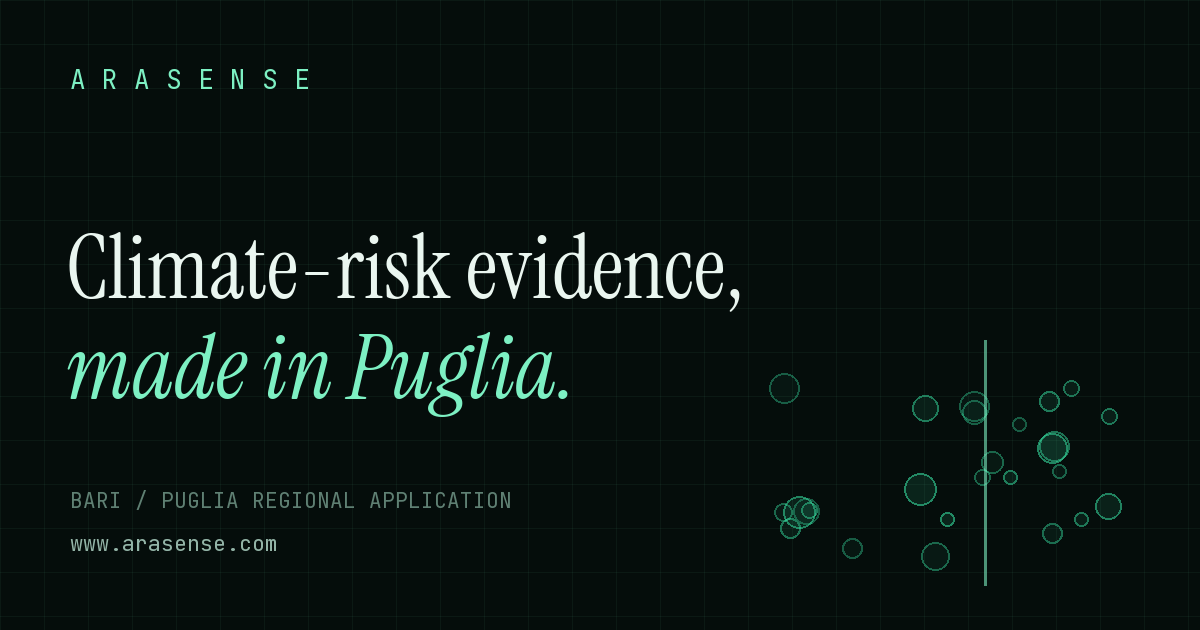
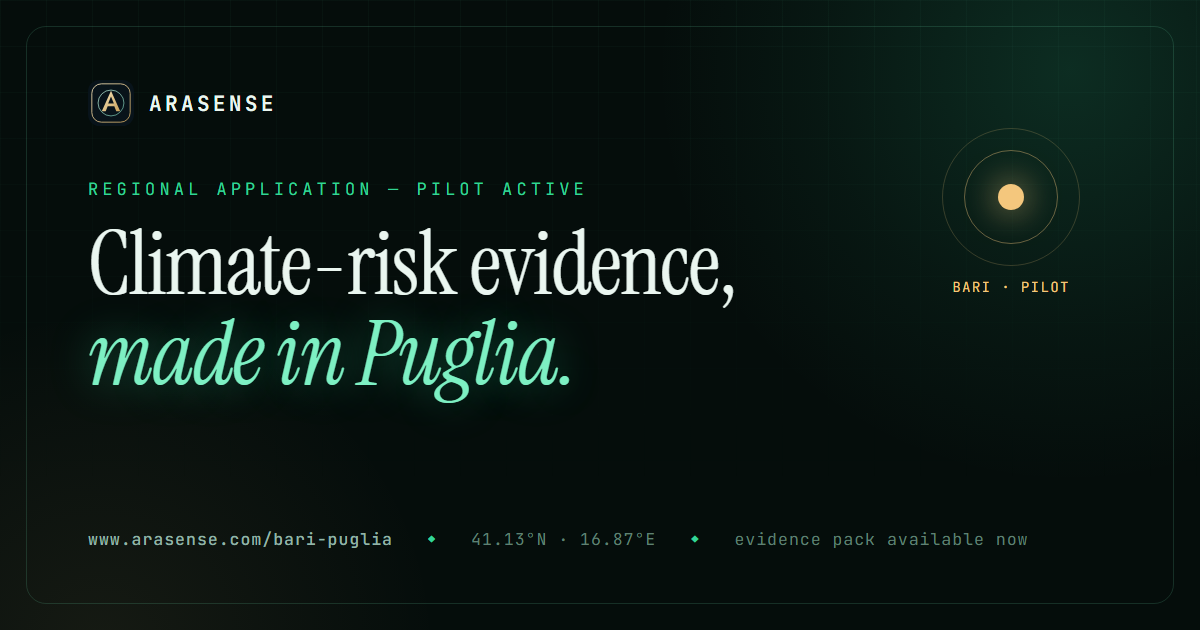
Visual evidence, Puglia lead capture, and redesigned OG cards
- Evidence page: uncertainty band drawn to scale with trust-weighted
  mean marker, SSP2-4.5 vs SSP5-8.5 duel bars with agreement meters,
  portfolio agreement meters (Venice amber at 56%)
- Bari/Puglia: pilot status strip and a working lead-capture form
  wired to the existing /api/lead worker (data-city Bari / Puglia)
- All six OG social cards regenerated in the site design language,
  each with a page-specific data motif; URLs versioned to bypass
  edge cache and force scraper refresh

diff --git a/site/evidence.html b/site/evidence.html
@@ -11,10 +11,10 @@
   <meta property="og:title" content="Sample Evidence — Arasense">
   <meta property="og:description" content="Evidence reports with trusted models, rejected models, uncertainty, and interpretation shown.">
   <meta property="og:url" content="https://www.arasense.com/evidence.html">
-  <meta property="og:image" content="https://www.arasense.com/og/evidence.png">
+  <meta property="og:image" content="https://www.arasense.com/og/evidence.png?v=2">
   <meta property="og:image:width" content="1200">
   <meta property="og:image:height" content="630">
-  <meta name="twitter:image" content="https://www.arasense.com/og/evidence.png">
+  <meta name="twitter:image" content="https://www.arasense.com/og/evidence.png?v=2">
   <meta name="twitter:card" content="summary_large_image">
   <link rel="preload" href="fonts/instrument-serif-400.woff2" as="font" type="font/woff2" crossorigin>
   <link rel="preload" href="fonts/instrument-serif-400-italic.woff2" as="font" type="font/woff2" crossorigin>
@@ -26,10 +26,104 @@
     .page-hero h1 { max-width: 860px; margin: 0 0 22px; }
     .evidence-grid { display: grid; grid-template-columns: repeat(2, minmax(0,1fr)); gap: 16px; margin-top: 36px; }
     .evidence-grid .wide { grid-column: 1 / -1; }
+
+    /* ---- uncertainty band, drawn not footnoted ---- */
+    .spread { margin: 18px 0 6px; }
+    .spread-track {
+      position: relative;
+      height: 46px;
+      border-radius: 10px;
+      background: rgba(5, 15, 12, 0.6);
+      border: 1px solid var(--line);
+      overflow: hidden;
+    }
+    .spread-band {
+      position: absolute;
+      top: 6px; bottom: 6px;
+      left: var(--lo); width: 0;
+      background: rgba(52, 211, 153, 0.13);
+      border: 1px dashed rgba(52, 211, 153, 0.35);
+      border-radius: 7px;
+      transition: width 1.1s cubic-bezier(0.22, 1, 0.36, 1) 0.2s;
+    }
+    .reveal.in .spread-band { width: var(--w); }
+    .spread-zero {
+      position: absolute;
+      top: 0; bottom: 0;
+      left: var(--x);
+      width: 1px;
+      background: rgba(110, 231, 183, 0.4);
+    }
+    .spread-mean {
+      position: absolute;
+      top: 0; bottom: 0;
+      left: var(--x);
+      width: 2px;
+      background: var(--accent-bright);
+      opacity: 0;
+      transition: opacity .6s 1s;
+    }
+    .reveal.in .spread-mean { opacity: 1; }
+    .spread-labels {
+      display: flex;
+      justify-content: space-between;
+      font-family: var(--font-mono);
+      font-size: 11px;
+      color: var(--faint);
+      margin-top: 8px;
+    }
+    .spread-labels .mean { color: var(--accent-bright); }
+
+    /* ---- scenario duel & hazard delta bars ---- */
+    .duel { display: flex; flex-direction: column; gap: 14px; margin: 18px 0 4px; }
+    .duel-row { display: grid; grid-template-columns: 88px 1fr 118px; gap: 12px; align-items: center; }
+    .duel-row .tag { font-family: var(--font-mono); font-size: 12px; color: var(--text); }
+    .duel-row .val { font-family: var(--font-mono); font-size: 12px; color: var(--muted); text-align: right; white-space: nowrap; }
+    .duel-bar {
+      height: 12px;
+      border-radius: 999px;
+      background: rgba(110, 231, 183, 0.1);
+      overflow: hidden;
+      position: relative;
+    }
+    .duel-bar b {
+      position: absolute;
+      top: 0; left: 0; bottom: 0;
+      width: 0;
+      border-radius: 999px;
+      background: linear-gradient(90deg, rgba(52, 211, 153, 0.45), var(--accent));
+      transition: width 1s cubic-bezier(0.22, 1, 0.36, 1) 0.25s;
+    }
+    .duel-bar.hot b { background: linear-gradient(90deg, rgba(244, 199, 125, 0.45), var(--amber)); }
+    .duel-bar.dry b { background: linear-gradient(90deg, rgba(240, 143, 132, 0.4), var(--red)); }
+    .reveal.in .duel-bar b { width: var(--w); }
+    .duel-note { font-size: 13px; color: var(--faint); margin-top: 12px; }
+
+    /* ---- agreement meters ---- */
+    .mt { display: inline-flex; align-items: center; gap: 9px; }
+    .mt i {
+      width: 64px; height: 5px;
+      border-radius: 999px;
+      background: rgba(110, 231, 183, 0.12);
+      position: relative;
+      overflow: hidden;
+    }
+    .mt i b {
+      position: absolute;
+      top: 0; left: 0; bottom: 0;
+      width: var(--w);
+      background: var(--accent);
+      border-radius: 999px;
+    }
+    .mt.warn i b { background: var(--amber); }
+    .mt.warn { color: var(--amber); }
+
     @media (max-width: 920px) {
       .page-hero { padding-top: 48px; }
       .evidence-grid { grid-template-columns: 1fr; }
       .evidence-grid .wide { grid-column: auto; }
+      .duel-row { grid-template-columns: 72px 1fr; }
+      .duel-row .val { grid-column: 1 / -1; text-align: left; }
     }
   </style>
 </head>
@@ -77,21 +171,39 @@
                 <tbody><tr><td class="num">40.23 mm</td><td class="num">45.97 mm</td><td class="num">−0.26 to +11.73 mm</td><td class="num">32 of 34</td></tr></tbody>
               </table>
             </div>
+            <div class="spread" aria-label="The uncertainty range of the Bologna projection, drawn to scale: trusted models span minus 0.26 to plus 11.73 millimetres, with the trust-weighted mean at plus 5.73 millimetres.">
+              <div class="spread-track">
+                <span class="spread-zero" style="--x:13.3%"></span>
+                <span class="spread-band" style="--lo:11.6%; --w:79.9%"></span>
+                <span class="spread-mean" style="--x:51.5%"></span>
+              </div>
+              <div class="spread-labels">
+                <span>−2 mm</span>
+                <span>0</span>
+                <span class="mean">▲ trust-weighted mean +5.73 mm</span>
+                <span>+13 mm</span>
+              </div>
+              <p class="duel-note">The uncertainty range is drawn to scale, not buried in a footnote: trusted models span −0.26 to +11.73 mm, and the trust-weighted mean sits at +5.73 mm.</p>
+            </div>
           </article>
 
           <article class="panel reveal">
             <span class="eyebrow">Scenario comparison</span>
             <h3 style="font-size:24px;">SSP2-4.5 vs SSP5-8.5</h3>
             <p>The historical baseline and model trust are held constant; only the emissions scenario changes.</p>
-            <div class="table-wrap">
-              <table>
-                <thead><tr><th>Scenario</th><th class="num">Future</th><th class="num">Change</th><th class="num">Agreement</th></tr></thead>
-                <tbody>
-                  <tr><td><strong>SSP2-4.5</strong></td><td class="num">45.97 mm</td><td class="num">+14.2%</td><td class="num">78%</td></tr>
-                  <tr><td><strong>SSP5-8.5</strong></td><td class="num">45.64 mm</td><td class="num">+13.5%</td><td class="num">74%</td></tr>
-                </tbody>
-              </table>
+            <div class="duel">
+              <div class="duel-row">
+                <span class="tag">SSP2-4.5</span>
+                <span class="duel-bar"><b style="--w:100%"></b></span>
+                <span class="val">+14.2% · <span class="mt"><i><b style="--w:78%"></b></i>78%</span></span>
+              </div>
+              <div class="duel-row">
+                <span class="tag">SSP5-8.5</span>
+                <span class="duel-bar"><b style="--w:94%"></b></span>
+                <span class="val">+13.5% · <span class="mt"><i><b style="--w:74%"></b></i>74%</span></span>
+              </div>
             </div>
+            <p class="duel-note">For this indicator and location the scenario gap is small — and the report says so, rather than dramatizing it. Agreement is shown for both runs.</p>
           </article>
 
           <article class="panel reveal">
@@ -118,11 +230,11 @@
               <table>
                 <thead><tr><th>Rank</th><th>Location</th><th class="num">Today</th><th class="num">2050</th><th class="num">Change</th><th class="num">Agreement</th></tr></thead>
                 <tbody>
-                  <tr class="highlight"><td>1</td><td><strong>Rome</strong></td><td class="num">39.91 mm</td><td class="num">47.40 mm</td><td class="num">+7.49 mm (+19%)</td><td class="num">100%</td></tr>
-                  <tr><td>2</td><td><strong>Milan</strong></td><td class="num">63.90 mm</td><td class="num">72.10 mm</td><td class="num">+8.20 mm (+13%)</td><td class="num">79%</td></tr>
-                  <tr><td>3</td><td><strong>Florence</strong></td><td class="num">46.17 mm</td><td class="num">51.45 mm</td><td class="num">+5.28 mm (+11%)</td><td class="num">80%</td></tr>
-                  <tr><td>4</td><td><strong>Bologna</strong></td><td class="num">44.20 mm</td><td class="num">48.95 mm</td><td class="num">+4.75 mm (+11%)</td><td class="num">100%</td></tr>
-                  <tr><td>5</td><td><strong>Venice</strong></td><td class="num">52.96 mm</td><td class="num">54.70 mm</td><td class="num">+1.74 mm (+3%)</td><td class="num">56%</td></tr>
+                  <tr class="highlight"><td>1</td><td><strong>Rome</strong></td><td class="num">39.91 mm</td><td class="num">47.40 mm</td><td class="num">+7.49 mm (+19%)</td><td class="num"><span class="mt"><i><b style="--w:100%"></b></i>100%</span></td></tr>
+                  <tr><td>2</td><td><strong>Milan</strong></td><td class="num">63.90 mm</td><td class="num">72.10 mm</td><td class="num">+8.20 mm (+13%)</td><td class="num"><span class="mt"><i><b style="--w:79%"></b></i>79%</span></td></tr>
+                  <tr><td>3</td><td><strong>Florence</strong></td><td class="num">46.17 mm</td><td class="num">51.45 mm</td><td class="num">+5.28 mm (+11%)</td><td class="num"><span class="mt"><i><b style="--w:80%"></b></i>80%</span></td></tr>
+                  <tr><td>4</td><td><strong>Bologna</strong></td><td class="num">44.20 mm</td><td class="num">48.95 mm</td><td class="num">+4.75 mm (+11%)</td><td class="num"><span class="mt"><i><b style="--w:100%"></b></i>100%</span></td></tr>
+                  <tr><td>5</td><td><strong>Venice</strong></td><td class="num">52.96 mm</td><td class="num">54.70 mm</td><td class="num">+1.74 mm (+3%)</td><td class="num"><span class="mt warn"><i><b style="--w:56%"></b></i>56%</span></td></tr>
                 </tbody>
               </table>
             </div>

diff --git a/site/bari-puglia.html b/site/bari-puglia.html
@@ -11,10 +11,10 @@
   <meta property="og:title" content="Bari / Puglia Regional Application — Arasense">
   <meta property="og:description" content="Climate-risk evidence for Bari and Puglia: model trust scored locally, 2050 hazards projected transparently.">
   <meta property="og:url" content="https://www.arasense.com/bari-puglia.html">
-  <meta property="og:image" content="https://www.arasense.com/og/bari-puglia.png">
+  <meta property="og:image" content="https://www.arasense.com/og/bari-puglia.png?v=2">
   <meta property="og:image:width" content="1200">
   <meta property="og:image:height" content="630">
-  <meta name="twitter:image" content="https://www.arasense.com/og/bari-puglia.png">
+  <meta name="twitter:image" content="https://www.arasense.com/og/bari-puglia.png?v=2">
   <meta name="twitter:card" content="summary_large_image">
   <link rel="preload" href="fonts/instrument-serif-400.woff2" as="font" type="font/woff2" crossorigin>
   <link rel="preload" href="fonts/instrument-serif-400-italic.woff2" as="font" type="font/woff2" crossorigin>
@@ -33,6 +33,33 @@
     .brief-link { display: block; border-radius: var(--radius); overflow: hidden; border: 1px solid var(--line); transition: border-color .2s, transform .2s; }
     .brief-link:hover { border-color: var(--accent); transform: translateY(-3px); }
     .brief-link img { display: block; width: 100%; }
+
+    .pilot-strip {
+      display: flex;
+      flex-wrap: wrap;
+      gap: 10px 26px;
+      margin-top: 26px;
+      font-family: var(--font-mono);
+      font-size: 12px;
+      letter-spacing: 0.08em;
+      color: var(--faint);
+    }
+    .pilot-strip b {
+      color: var(--accent-bright);
+      font-weight: 500;
+    }
+    .pilot-strip span::before {
+      content: "";
+      display: inline-block;
+      width: 7px; height: 7px;
+      border-radius: 50%;
+      background: var(--accent);
+      box-shadow: 0 0 8px var(--accent);
+      margin-right: 9px;
+      vertical-align: 1px;
+    }
+    .pilot-strip span.amber::before { background: var(--amber); box-shadow: 0 0 8px var(--amber); }
+
     @media (max-width: 920px) {
       .page-hero { grid-template-columns: 1fr; padding-top: 48px; }
     }
@@ -70,10 +97,32 @@
             <a class="button" href="bari-puglia-climate-risk-brief.pdf">Download the PDF brief</a>
             <a class="button-secondary" href="mailto:arasbotan.izzaddin@poliba.it?subject=Arasense%20Bari%20Puglia%20briefing">Request a briefing</a>
           </div>
+          <div class="pilot-strip">
+            <span><b>PILOT · ACTIVE</b></span>
+            <span>EVIDENCE PACK · AVAILABLE NOW</span>
+            <span class="amber">ATLAS NUMBERS · FOLLOW THE PILOT</span>
+          </div>
         </div>
         <a class="brief-link reveal" href="bari-puglia-climate-risk-brief.pdf" aria-label="Download the Bari / Puglia climate-risk evidence brief">
           <img src="bari-puglia-brief-cover.jpg" alt="Cover of the Bari / Puglia climate-risk evidence brief" loading="lazy">
         </a>
+      </section>
+
+      <hr class="hr">
+
+      <section class="section">
+        <div class="panel reveal" style="padding:34px;">
+          <span class="eyebrow">Direct line</span>
+          <h3 style="font-size:24px; margin-bottom:8px;">Get the Bari / Puglia trust brief by email</h3>
+          <p style="max-width:560px;">One email, no list, no follow-up sequence — the regional brief and a short note on how the trust-first method applies to your locations.</p>
+          <form class="lead-form" data-city="Bari / Puglia" style="margin-top:18px;">
+            <input type="text" class="lf-hp" name="website" tabindex="-1" autocomplete="off" aria-hidden="true">
+            <input type="email" name="email" required placeholder="you@organisation.it" aria-label="Your email address">
+            <input type="text" name="org" placeholder="Organisation (optional)" aria-label="Your organisation, optional">
+            <button class="button" type="submit">Send me the brief</button>
+            <p class="lf-msg" role="status"></p>
+          </form>
+        </div>
       </section>
 
       <hr class="hr">

diff --git a/site/index.html b/site/index.html
@@ -11,10 +11,10 @@
   <meta property="og:title" content="Arasense — Know which climate models to trust">
   <meta property="og:description" content="Climate models disagree. Arasense measures which ones to believe — location by location — and turns them into defensible 2050 risk evidence.">
   <meta property="og:url" content="https://www.arasense.com/">
-  <meta property="og:image" content="https://www.arasense.com/og/home.png">
+  <meta property="og:image" content="https://www.arasense.com/og/home.png?v=2">
   <meta property="og:image:width" content="1200">
   <meta property="og:image:height" content="630">
-  <meta name="twitter:image" content="https://www.arasense.com/og/home.png">
+  <meta name="twitter:image" content="https://www.arasense.com/og/home.png?v=2">
   <meta name="twitter:card" content="summary_large_image">
   <link rel="preload" href="fonts/instrument-serif-400.woff2" as="font" type="font/woff2" crossorigin>
   <link rel="preload" href="fonts/instrument-serif-400-italic.woff2" as="font" type="font/woff2" crossorigin>

diff --git a/site/demo.html b/site/demo.html
@@ -11,10 +11,10 @@
   <meta property="og:title" content="Demo Console — Arasense">
   <meta property="og:description" content="A live session replay: pick a European city, watch climate models earn trust, and see the 2050 number materialize — every figure a real atlas output.">
   <meta property="og:url" content="https://www.arasense.com/demo.html">
-  <meta property="og:image" content="https://www.arasense.com/og/demo.png">
+  <meta property="og:image" content="https://www.arasense.com/og/demo.png?v=2">
   <meta property="og:image:width" content="1200">
   <meta property="og:image:height" content="630">
-  <meta name="twitter:image" content="https://www.arasense.com/og/demo.png">
+  <meta name="twitter:image" content="https://www.arasense.com/og/demo.png?v=2">
   <meta name="twitter:card" content="summary_large_image">
   <link rel="preload" href="fonts/instrument-serif-400.woff2" as="font" type="font/woff2" crossorigin>
   <link rel="preload" href="fonts/instrument-serif-400-italic.woff2" as="font" type="font/woff2" crossorigin>

diff --git a/site/case-studies.html b/site/case-studies.html
@@ -11,10 +11,10 @@
   <meta property="og:title" content="Case Studies — Arasense">
   <meta property="og:description" content="Trust-weighted climate projections with every model, weight, and uncertainty range shown.">
   <meta property="og:url" content="https://www.arasense.com/case-studies.html">
-  <meta property="og:image" content="https://www.arasense.com/og/case-studies.png">
+  <meta property="og:image" content="https://www.arasense.com/og/case-studies.png?v=2">
   <meta property="og:image:width" content="1200">
   <meta property="og:image:height" content="630">
-  <meta name="twitter:image" content="https://www.arasense.com/og/case-studies.png">
+  <meta name="twitter:image" content="https://www.arasense.com/og/case-studies.png?v=2">
   <meta name="twitter:card" content="summary_large_image">
   <link rel="preload" href="fonts/instrument-serif-400.woff2" as="font" type="font/woff2" crossorigin>
   <link rel="preload" href="fonts/instrument-serif-400-italic.woff2" as="font" type="font/woff2" crossorigin>

diff --git a/site/atlas.html b/site/atlas.html
@@ -11,10 +11,10 @@
   <meta property="og:title" content="The Climate Model Trust Atlas — Arasense">
   <meta property="og:description" content="Click a European city. See which climate models earned trust there, and what they say about 2050.">
   <meta property="og:url" content="https://www.arasense.com/atlas.html">
-  <meta property="og:image" content="https://www.arasense.com/og/atlas.png">
+  <meta property="og:image" content="https://www.arasense.com/og/atlas.png?v=2">
   <meta property="og:image:width" content="1200">
   <meta property="og:image:height" content="630">
-  <meta name="twitter:image" content="https://www.arasense.com/og/atlas.png">
+  <meta name="twitter:image" content="https://www.arasense.com/og/atlas.png?v=2">
   <meta name="twitter:card" content="summary_large_image">
   <link rel="preload" href="fonts/instrument-serif-400.woff2" as="font" type="font/woff2" crossorigin>
   <link rel="preload" href="fonts/instrument-serif-400-italic.woff2" as="font" type="font/woff2" crossorigin>
